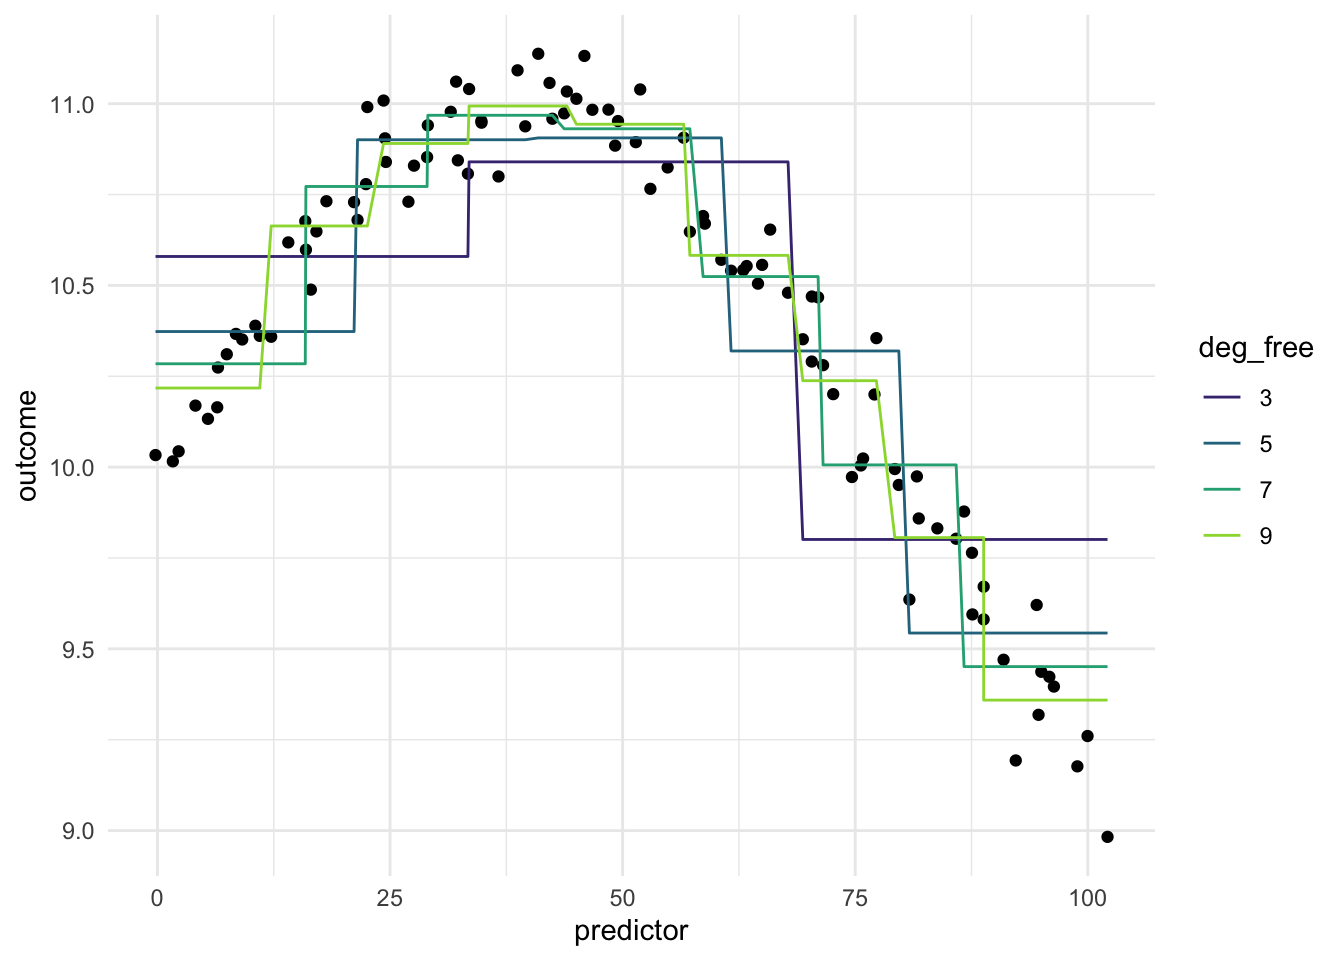
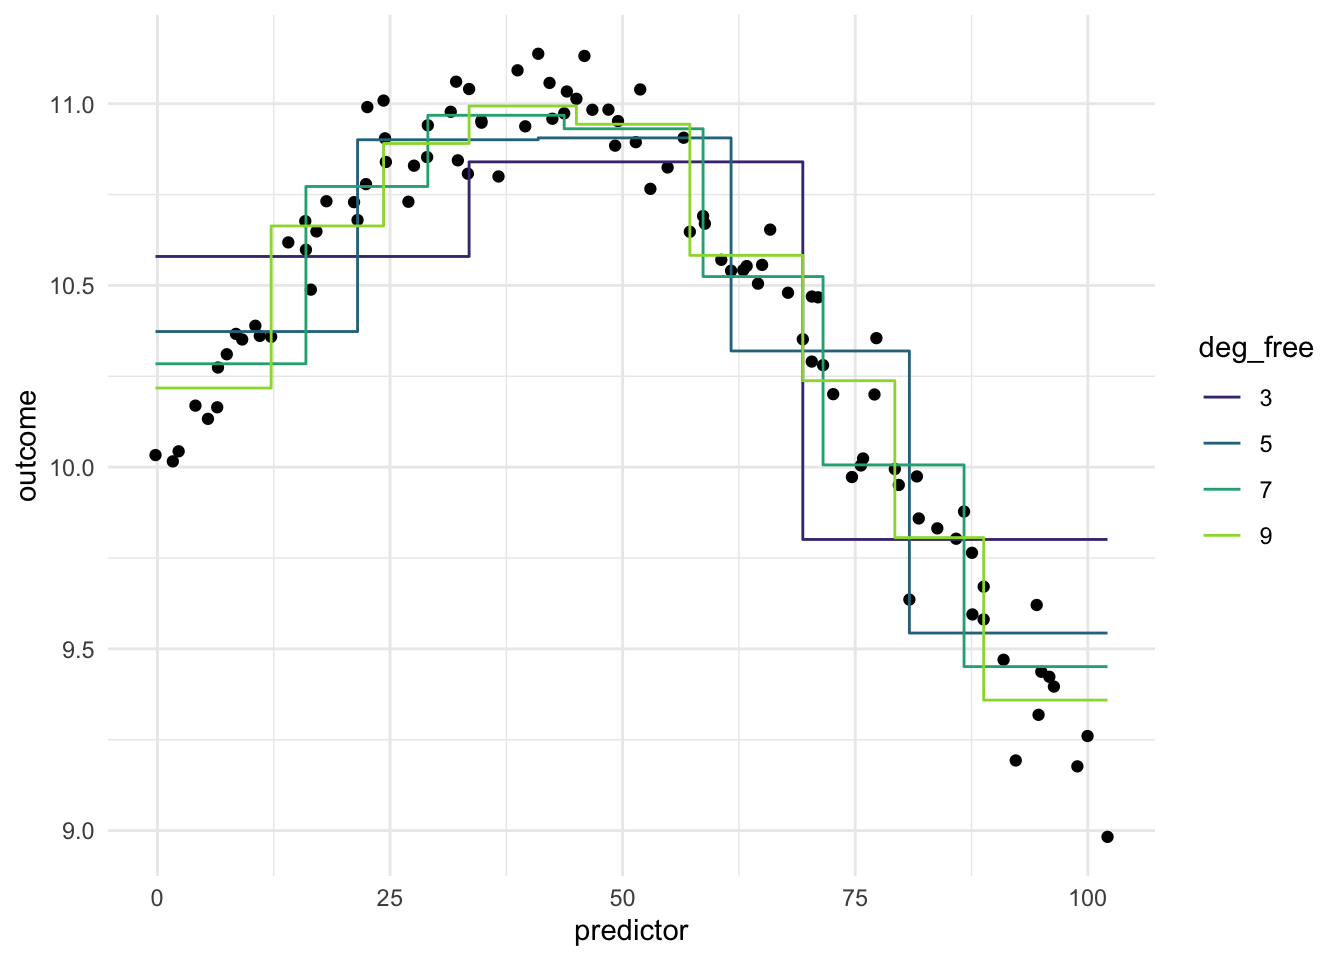
binning chapter first draft

diff --git a/_book/numeric-binning.html b/_book/numeric-binning.html
@@ -20,6 +20,40 @@ ul.task-list li input[type="checkbox"] {
   margin: 0 0.8em 0.2em -1em; /* quarto-specific, see https://github.com/quarto-dev/quarto-cli/issues/4556 */ 
   vertical-align: middle;
 }
+/* CSS for syntax highlighting */
+pre > code.sourceCode { white-space: pre; position: relative; }
+pre > code.sourceCode > span { display: inline-block; line-height: 1.25; }
+pre > code.sourceCode > span:empty { height: 1.2em; }
+.sourceCode { overflow: visible; }
+code.sourceCode > span { color: inherit; text-decoration: inherit; }
+div.sourceCode { margin: 1em 0; }
+pre.sourceCode { margin: 0; }
+@media screen {
+div.sourceCode { overflow: auto; }
+}
+@media print {
+pre > code.sourceCode { white-space: pre-wrap; }
+pre > code.sourceCode > span { text-indent: -5em; padding-left: 5em; }
+}
+pre.numberSource code
+  { counter-reset: source-line 0; }
+pre.numberSource code > span
+  { position: relative; left: -4em; counter-increment: source-line; }
+pre.numberSource code > span > a:first-child::before
+  { content: counter(source-line);
+    position: relative; left: -1em; text-align: right; vertical-align: baseline;
+    border: none; display: inline-block;
+    -webkit-touch-callout: none; -webkit-user-select: none;
+    -khtml-user-select: none; -moz-user-select: none;
+    -ms-user-select: none; user-select: none;
+    padding: 0 4px; width: 4em;
+  }
+pre.numberSource { margin-left: 3em;  padding-left: 4px; }
+div.sourceCode
+  {   }
+@media screen {
+pre > code.sourceCode > span > a:first-child::before { text-decoration: underline; }
+}
 </style>
 
 
@@ -805,6 +839,8 @@ ul.task-list li input[type="checkbox"] {
 
 </header>
 
+<p><strong>Binning</strong>, is one way to represent a curve that makes it useful in a modeling content, since it allows us to model non-linear relationships between predictors and outcomes. This is a trained method.</p>
+<p>Being able to transform a numeric variable that has a non-linear relationship with the outcome into one or more variables that does have linear relationships with the outcome is of great importance, as many models wouldn’t be able to work with these types of variables effectively themselves. Below is a toy example of one such variable</p>
 <div class="cell">
 <div class="cell-output-display">
 <div id="fig-binning-predictor-outcome" class="quarto-figure quarto-figure-center anchored">
@@ -815,6 +851,8 @@ ul.task-list li input[type="checkbox"] {
 </div>
 </div>
 </div>
+<p>Here we have a non-linear relationship. It is a fairly simple one, the outcome is high when the predictor takes values between 25 and 50, and the outside the ranges it takes over values. Given that this is a toy example, we do not have any expert knowledge regarding what we expect the relationship to be outside this range. The trend could go back up, it could go down or flatten out. We don’t know.</p>
+<p>Below we see the way each of the new variables activete different areas of the domain.</p>
 <div class="cell">
 <div class="cell-output-display">
 <div id="fig-binning-curves" class="quarto-figure quarto-figure-center anchored">
@@ -825,6 +863,7 @@ ul.task-list li input[type="checkbox"] {
 </div>
 </div>
 </div>
+<p>What we see in this example that the regions appears to be evenly spaces over the observed values of the predictor. This is neither and good or bad thing, but something we need to think about. Ideally we want the different regions to represent something shared within them. If the cuts are happening at non-ideal locations we don’t get the full benefit. See below for such an example</p>
 <div class="cell">
 <div class="cell-output-display">
 <div id="fig-binning-highlight" class="quarto-figure quarto-figure-center anchored">
@@ -835,6 +874,8 @@ ul.task-list li input[type="checkbox"] {
 </div>
 </div>
 </div>
+<p>Ideally we would want the region with the highest values of <code>outcome</code> to be in the same region. but It appears to be split between Bin 2 and Bin 3.</p>
+<p>Below is a chart of how well using evenly split binning works when using it on our toy example. We notice that using binning doesn’t really work that well for this type of data. And it makes sense, binning will naturally create a step function like we see below, and if your predictor doesn’t have that shape, you are unlikely to see as good performance as with splines <a href="numeric-splines.html"><span>Chapter&nbsp;15</span></a> or polynomial expansion <span class="quarto-unresolved-ref">?sec-polynomiall</span>.</p>
 <div class="cell">
 <div class="cell-output-display">
 <div id="fig-binning-different-num_breaks" class="quarto-figure quarto-figure-center anchored">
@@ -849,13 +890,117 @@ ul.task-list li input[type="checkbox"] {
 <h2 data-number="14.1" class="anchored" data-anchor-id="pros-and-cons"><span class="header-section-number">14.1</span> Pros and Cons</h2>
 <section id="pros" class="level3" data-number="14.1.1">
 <h3 data-number="14.1.1" class="anchored" data-anchor-id="pros"><span class="header-section-number">14.1.1</span> Pros</h3>
+<ul>
+<li>Works fast computationally</li>
+<li>Behaves predictably outside the range of the predictors</li>
+<li>If cuts are playes well, it can handle sudden changes in distributions</li>
+<li>Interpretable</li>
+<li>doens’t create correlated features</li>
+</ul>
 </section>
 <section id="cons" class="level3" data-number="14.1.2">
 <h3 data-number="14.1.2" class="anchored" data-anchor-id="cons"><span class="header-section-number">14.1.2</span> Cons</h3>
+<ul>
+<li>The inherent rounding that happens, can lead to loss of performance and interpretations</li>
+<li>arguably less interpretable than binning</li>
+<li>can produce a lot of variables</li>
+</ul>
 </section>
 </section>
 <section id="r-examples" class="level2" data-number="14.2">
 <h2 data-number="14.2" class="anchored" data-anchor-id="r-examples"><span class="header-section-number">14.2</span> R Examples</h2>
+<p>We will be using the <code>ames</code> data set for these examples.</p>
+<div class="cell">
+<div class="sourceCode cell-code" id="cb1"><pre class="sourceCode r code-with-copy"><code class="sourceCode r"><span id="cb1-1"><a href="#cb1-1" aria-hidden="true" tabindex="-1"></a>ames <span class="sc">|&gt;</span></span>
+<span id="cb1-2"><a href="#cb1-2" aria-hidden="true" tabindex="-1"></a>  <span class="fu">select</span>(Lot_Area, Year_Built)</span></code><button title="Copy to Clipboard" class="code-copy-button"><i class="bi"></i></button></pre></div>
+<div class="cell-output cell-output-stdout">
+<pre><code># A tibble: 2,930 × 2
+   Lot_Area Year_Built
+      &lt;int&gt;      &lt;int&gt;
+ 1    31770       1960
+ 2    11622       1961
+ 3    14267       1958
+ 4    11160       1968
+ 5    13830       1997
+ 6     9978       1998
+ 7     4920       2001
+ 8     5005       1992
+ 9     5389       1995
+10     7500       1999
+# ℹ 2,920 more rows</code></pre>
+</div>
+</div>
+<p>{recipes} has the function <code>step_discretize()</code> for just this occasion.</p>
+<div class="cell">
+<div class="sourceCode cell-code" id="cb3"><pre class="sourceCode r code-with-copy"><code class="sourceCode r"><span id="cb3-1"><a href="#cb3-1" aria-hidden="true" tabindex="-1"></a>bin_rec <span class="ot">&lt;-</span> <span class="fu">recipe</span>(<span class="sc">~</span> Lot_Area <span class="sc">+</span> Year_Built, <span class="at">data =</span> ames) <span class="sc">|&gt;</span></span>
+<span id="cb3-2"><a href="#cb3-2" aria-hidden="true" tabindex="-1"></a>  <span class="fu">step_discretize</span>(Lot_Area, Year_Built)</span>
+<span id="cb3-3"><a href="#cb3-3" aria-hidden="true" tabindex="-1"></a></span>
+<span id="cb3-4"><a href="#cb3-4" aria-hidden="true" tabindex="-1"></a>bin_rec <span class="sc">|&gt;</span></span>
+<span id="cb3-5"><a href="#cb3-5" aria-hidden="true" tabindex="-1"></a>  <span class="fu">prep</span>() <span class="sc">|&gt;</span></span>
+<span id="cb3-6"><a href="#cb3-6" aria-hidden="true" tabindex="-1"></a>  <span class="fu">bake</span>(<span class="at">new_data =</span> <span class="cn">NULL</span>) <span class="sc">|&gt;</span></span>
+<span id="cb3-7"><a href="#cb3-7" aria-hidden="true" tabindex="-1"></a>  <span class="fu">glimpse</span>()</span></code><button title="Copy to Clipboard" class="code-copy-button"><i class="bi"></i></button></pre></div>
+<div class="cell-output cell-output-stderr">
+<pre><code>Warning: Note that the options `prefix` and `labels` will be applied to all
+variables</code></pre>
+</div>
+<div class="cell-output cell-output-stdout">
+<pre><code>Rows: 2,930
+Columns: 2
+$ Lot_Area   &lt;fct&gt; bin4, bin4, bin4, bin3, bin4, bin3, bin1, bin1, bin1, bin2,…
+$ Year_Built &lt;fct&gt; bin2, bin2, bin2, bin2, bin3, bin3, bin3, bin3, bin3, bin3,…</code></pre>
+</div>
+</div>
+<p>If you don’t like the default number of breaks created, you can use the <code>num_breaks = 6</code> argument to change it.</p>
+<div class="cell">
+<div class="sourceCode cell-code" id="cb6"><pre class="sourceCode r code-with-copy"><code class="sourceCode r"><span id="cb6-1"><a href="#cb6-1" aria-hidden="true" tabindex="-1"></a>bin_rec <span class="ot">&lt;-</span> <span class="fu">recipe</span>(<span class="sc">~</span> Lot_Area <span class="sc">+</span> Year_Built, <span class="at">data =</span> ames) <span class="sc">|&gt;</span></span>
+<span id="cb6-2"><a href="#cb6-2" aria-hidden="true" tabindex="-1"></a>  <span class="fu">step_discretize</span>(Lot_Area, Year_Built, <span class="at">num_breaks =</span> <span class="dv">6</span>)</span>
+<span id="cb6-3"><a href="#cb6-3" aria-hidden="true" tabindex="-1"></a></span>
+<span id="cb6-4"><a href="#cb6-4" aria-hidden="true" tabindex="-1"></a>bin_rec <span class="sc">|&gt;</span></span>
+<span id="cb6-5"><a href="#cb6-5" aria-hidden="true" tabindex="-1"></a>  <span class="fu">prep</span>() <span class="sc">|&gt;</span></span>
+<span id="cb6-6"><a href="#cb6-6" aria-hidden="true" tabindex="-1"></a>  <span class="fu">bake</span>(<span class="at">new_data =</span> <span class="cn">NULL</span>) <span class="sc">|&gt;</span></span>
+<span id="cb6-7"><a href="#cb6-7" aria-hidden="true" tabindex="-1"></a>  <span class="fu">glimpse</span>()</span></code><button title="Copy to Clipboard" class="code-copy-button"><i class="bi"></i></button></pre></div>
+<div class="cell-output cell-output-stderr">
+<pre><code>Warning: Note that the options `prefix` and `labels` will be applied to all
+variables</code></pre>
+</div>
+<div class="cell-output cell-output-stdout">
+<pre><code>Rows: 2,930
+Columns: 2
+$ Lot_Area   &lt;fct&gt; bin6, bin5, bin6, bin5, bin6, bin4, bin1, bin1, bin1, bin2,…
+$ Year_Built &lt;fct&gt; bin2, bin3, bin2, bin3, bin5, bin5, bin5, bin4, bin4, bin5,…</code></pre>
+</div>
+</div>
+<p>This step technically creates a factor variable, but we can turn it into a series of indicator functions with <code>step_dummy()</code></p>
+<div class="cell">
+<div class="sourceCode cell-code" id="cb9"><pre class="sourceCode r code-with-copy"><code class="sourceCode r"><span id="cb9-1"><a href="#cb9-1" aria-hidden="true" tabindex="-1"></a>bin_rec <span class="ot">&lt;-</span> <span class="fu">recipe</span>(<span class="sc">~</span> Lot_Area <span class="sc">+</span> Year_Built, <span class="at">data =</span> ames) <span class="sc">|&gt;</span></span>
+<span id="cb9-2"><a href="#cb9-2" aria-hidden="true" tabindex="-1"></a>  <span class="fu">step_discretize</span>(Lot_Area, Year_Built, <span class="at">num_breaks =</span> <span class="dv">6</span>) <span class="sc">|&gt;</span></span>
+<span id="cb9-3"><a href="#cb9-3" aria-hidden="true" tabindex="-1"></a>  <span class="fu">step_dummy</span>(Lot_Area, Year_Built, <span class="at">one_hot =</span> <span class="cn">TRUE</span>)</span>
+<span id="cb9-4"><a href="#cb9-4" aria-hidden="true" tabindex="-1"></a></span>
+<span id="cb9-5"><a href="#cb9-5" aria-hidden="true" tabindex="-1"></a>bin_rec <span class="sc">|&gt;</span></span>
+<span id="cb9-6"><a href="#cb9-6" aria-hidden="true" tabindex="-1"></a>  <span class="fu">prep</span>() <span class="sc">|&gt;</span></span>
+<span id="cb9-7"><a href="#cb9-7" aria-hidden="true" tabindex="-1"></a>  <span class="fu">bake</span>(<span class="at">new_data =</span> <span class="cn">NULL</span>) <span class="sc">|&gt;</span></span>
+<span id="cb9-8"><a href="#cb9-8" aria-hidden="true" tabindex="-1"></a>  <span class="fu">glimpse</span>()</span></code><button title="Copy to Clipboard" class="code-copy-button"><i class="bi"></i></button></pre></div>
+<div class="cell-output cell-output-stderr">
+<pre><code>Warning: Note that the options `prefix` and `labels` will be applied to all
+variables</code></pre>
+</div>
+<div class="cell-output cell-output-stdout">
+<pre><code>Rows: 2,930
+Columns: 12
+$ Lot_Area_bin1   &lt;dbl&gt; 0, 0, 0, 0, 0, 0, 1, 1, 1, 0, 0, 0, 0, 0, 0, 0, 0, 0, …
+$ Lot_Area_bin2   &lt;dbl&gt; 0, 0, 0, 0, 0, 0, 0, 0, 0, 1, 0, 1, 0, 0, 1, 0, 0, 0, …
+$ Lot_Area_bin3   &lt;dbl&gt; 0, 0, 0, 0, 0, 0, 0, 0, 0, 0, 0, 0, 1, 0, 0, 0, 0, 0, …
+$ Lot_Area_bin4   &lt;dbl&gt; 0, 0, 0, 0, 0, 1, 0, 0, 0, 0, 1, 0, 0, 1, 0, 0, 0, 0, …
+$ Lot_Area_bin5   &lt;dbl&gt; 0, 1, 0, 1, 0, 0, 0, 0, 0, 0, 0, 0, 0, 0, 0, 0, 1, 1, …
+$ Lot_Area_bin6   &lt;dbl&gt; 1, 0, 1, 0, 1, 0, 0, 0, 0, 0, 0, 0, 0, 0, 0, 1, 0, 0, …
+$ Year_Built_bin1 &lt;dbl&gt; 0, 0, 0, 0, 0, 0, 0, 0, 0, 0, 0, 0, 0, 0, 0, 0, 0, 0, …
+$ Year_Built_bin2 &lt;dbl&gt; 1, 0, 1, 0, 0, 0, 0, 0, 0, 0, 0, 0, 0, 0, 0, 0, 0, 0, …
+$ Year_Built_bin3 &lt;dbl&gt; 0, 1, 0, 1, 0, 0, 0, 0, 0, 0, 0, 0, 0, 0, 0, 0, 0, 0, …
+$ Year_Built_bin4 &lt;dbl&gt; 0, 0, 0, 0, 0, 0, 0, 1, 1, 0, 1, 1, 0, 1, 1, 0, 1, 0, …
+$ Year_Built_bin5 &lt;dbl&gt; 0, 0, 0, 0, 1, 1, 1, 0, 0, 1, 0, 0, 1, 0, 0, 1, 0, 0, …
+$ Year_Built_bin6 &lt;dbl&gt; 0, 0, 0, 0, 0, 0, 0, 0, 0, 0, 0, 0, 0, 0, 0, 0, 0, 1, …</code></pre>
+</div>
+</div>
 </section>
 <section id="python-examples" class="level2" data-number="14.3">
 <h2 data-number="14.3" class="anchored" data-anchor-id="python-examples"><span class="header-section-number">14.3</span> Python Examples</h2>
